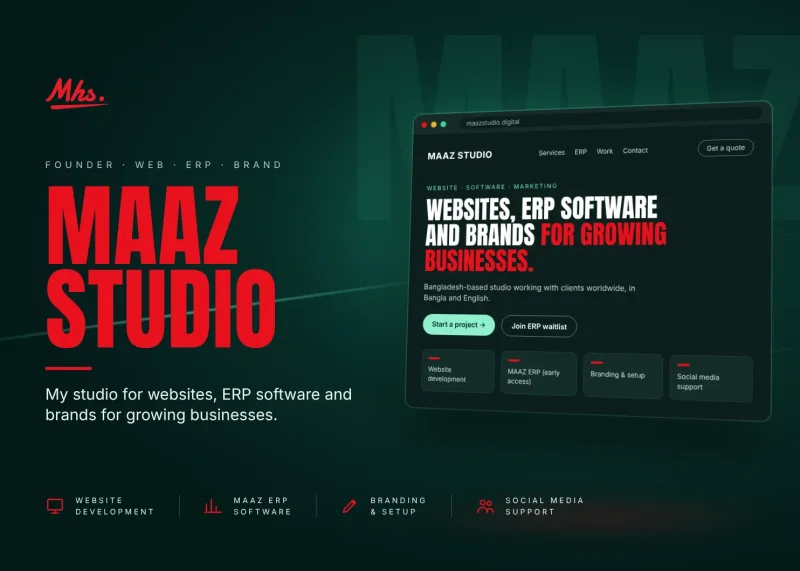
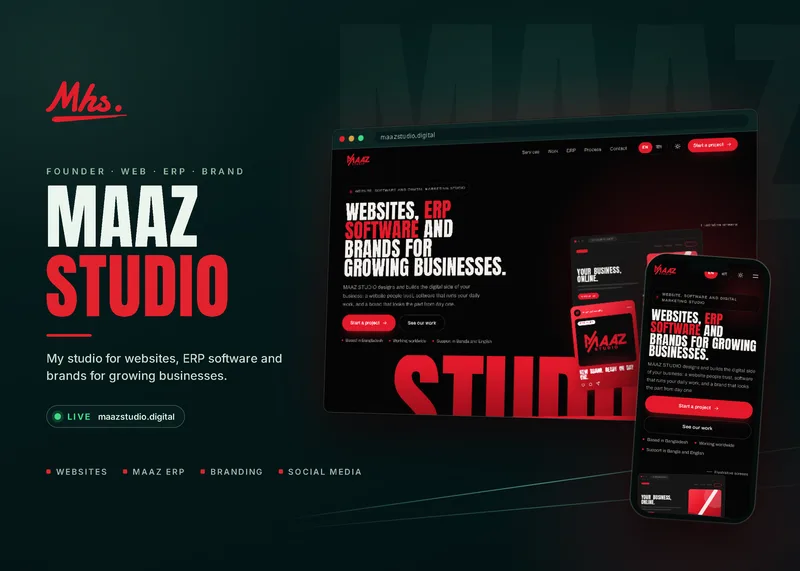
New MAAZ STUDIO cover from the live site, fix two artwork typos
- MAAZ STUDIO cover, small cover and share image rebuilt with real
  screenshots of the current black and red maazstudio.digital (desktop
  in a browser window, mobile on a phone); the old mockup showed an
  outdated green version of the site.
- Biporjoy 18 Season 3 result post: "NATCH DAY-02" now reads
  "MATCH DAY-02" (the M comes from the same font in the TIME line).
- SSFC committee ID card: "COMMITTE MEMBER" now reads
  "COMMITTEE MEMBER", line kept centered.
- Version bumps on the changed image URLs.

diff --git a/maaz-studio.html b/maaz-studio.html
@@ -15,17 +15,17 @@
   <meta property="og:title" content="MAAZ STUDIO | MD Mehedi Hasan Sawon">
   <meta property="og:description" content="My studio for websites, ERP software and brands for growing businesses.">
   <meta property="og:url" content="https://xehedihasansawon.github.io/maaz-studio.html">
-  <meta property="og:image" content="https://xehedihasansawon.github.io/assets/work/maaz-studio-og.jpg">
+  <meta property="og:image" content="https://xehedihasansawon.github.io/assets/work/maaz-studio-og.jpg?v=2">
   <meta property="og:image:width" content="1200">
   <meta property="og:image:height" content="630">
   <meta name="twitter:card" content="summary_large_image">
   <meta name="twitter:title" content="MAAZ STUDIO | MD Mehedi Hasan Sawon">
   <meta name="twitter:description" content="My studio for websites, ERP software and brands for growing businesses.">
-  <meta name="twitter:image" content="https://xehedihasansawon.github.io/assets/work/maaz-studio-og.jpg">
+  <meta name="twitter:image" content="https://xehedihasansawon.github.io/assets/work/maaz-studio-og.jpg?v=2">
   <link rel="preload" href="assets/fonts/inter-latin.woff2" as="font" type="font/woff2" crossorigin>
   <link rel="preload" href="assets/fonts/anton-latin.woff2" as="font" type="font/woff2" crossorigin>
   <link rel="stylesheet" href="styles.css?v=v15-20261122">
-  <script type="application/ld+json">{"@context":"https://schema.org","@type":"CreativeWork","name":"MAAZ STUDIO","url":"https://xehedihasansawon.github.io/maaz-studio.html","image":"https://xehedihasansawon.github.io/assets/work/maaz-studio-og.jpg","description":"MAAZ STUDIO, founded by MD Mehedi Hasan Sawon in February 2026: websites, ERP software, branding and social media support for growing businesses.","creator":{"@type":"Person","name":"MD Mehedi Hasan Sawon","url":"https://xehedihasansawon.github.io/"},"sameAs":"https://maazstudio.digital/"}</script>
+  <script type="application/ld+json">{"@context":"https://schema.org","@type":"CreativeWork","name":"MAAZ STUDIO","url":"https://xehedihasansawon.github.io/maaz-studio.html","image":"https://xehedihasansawon.github.io/assets/work/maaz-studio-og.jpg?v=2","description":"MAAZ STUDIO, founded by MD Mehedi Hasan Sawon in February 2026: websites, ERP software, branding and social media support for growing businesses.","creator":{"@type":"Person","name":"MD Mehedi Hasan Sawon","url":"https://xehedihasansawon.github.io/"},"sameAs":"https://maazstudio.digital/"}</script>
 </head>
 <body class="case-study-page">
   <div class="loader" id="loader" aria-hidden="true">
@@ -95,7 +95,7 @@
           <p class="case-lead">The studio I founded in February 2026 to help growing businesses build their digital side: a website people trust, software that runs their daily work, and a brand that looks the part from day one.</p>
           <div class="case-tags"><span>Founder</span><span>Websites</span><span>ERP Software</span><span>Branding</span><span>Social Media</span></div>
         </div>
-        <div class="case-hero-visual"><img src="assets/work/maaz-studio-cover.webp?v=2" srcset="assets/work/maaz-studio-cover-sm.webp 800w, assets/work/maaz-studio-cover.webp?v=2 1484w" sizes="(max-width: 960px) calc(100vw - 32px), 590px" width="1484" height="1060" alt="MAAZ STUDIO website shown in a browser window" fetchpriority="high" decoding="async"></div>
+        <div class="case-hero-visual"><img src="assets/work/maaz-studio-cover.webp?v=3" srcset="assets/work/maaz-studio-cover-sm.webp?v=3 800w, assets/work/maaz-studio-cover.webp?v=3 1484w" sizes="(max-width: 960px) calc(100vw - 32px), 590px" width="1484" height="1060" alt="MAAZ STUDIO cover with the live maazstudio.digital site on a browser window and a phone" fetchpriority="high" decoding="async"></div>
       </div>
     </section>
 

diff --git a/index.html b/index.html
@@ -197,7 +197,7 @@
         </div>
         <div class="projects-grid">
           <a class="card project" href="maaz-studio.html" data-reveal>
-            <div class="project-media"><img src="assets/work/maaz-studio-cover.webp?v=2" srcset="assets/work/maaz-studio-cover-sm.webp 800w, assets/work/maaz-studio-cover.webp?v=2 1484w" sizes="(max-width: 640px) calc(100vw - 32px), (max-width: 960px) calc(50vw - 26px), 387px" width="1484" height="1060" alt="MAAZ STUDIO website shown in a browser window" loading="lazy" decoding="async"></div>
+            <div class="project-media"><img src="assets/work/maaz-studio-cover.webp?v=3" srcset="assets/work/maaz-studio-cover-sm.webp?v=3 800w, assets/work/maaz-studio-cover.webp?v=3 1484w" sizes="(max-width: 640px) calc(100vw - 32px), (max-width: 960px) calc(50vw - 26px), 387px" width="1484" height="1060" alt="MAAZ STUDIO cover with the live maazstudio.digital site on a browser window and a phone" loading="lazy" decoding="async"></div>
             <div class="project-body">
               <span class="project-meta">Founder · Digital Studio · 2026</span>
               <div class="project-title"><h3>MAAZ STUDIO</h3><span class="round-arrow"><svg class="icon icon-sm" aria-hidden="true"><use href="#i-arrow-up-right"/></svg></span></div>

diff --git a/biporjoy.html b/biporjoy.html
@@ -246,7 +246,7 @@
             <p>Match day 2 of Season 3 on 24 June 2025: Biporjoy 18 2–0 Agnibij 26 at Shahid Maruf Stadium, in black and gold with the new crest.</p>
             <div class="format-meta"><span>Match Graphic</span><span>Social Post</span></div>
           </div>
-          <button type="button" class="case-image-button portrait-art post-art" data-lightbox="assets/work/biporjoy-2025-matchday-result.webp" data-caption="Match Day Result · Season 3 · 2025"><img src="assets/work/biporjoy-2025-matchday-result-sm.webp" width="720" height="720" alt="Biporjoy 18 2–0 Agnibij 26 match day result, 24 June 2025" loading="lazy" decoding="async"></button>
+          <button type="button" class="case-image-button portrait-art post-art" data-lightbox="assets/work/biporjoy-2025-matchday-result.webp?v=2" data-caption="Match Day Result · Season 3 · 2025"><img src="assets/work/biporjoy-2025-matchday-result-sm.webp?v=2" width="720" height="720" alt="Biporjoy 18 2–0 Agnibij 26 match day result, 24 June 2025" loading="lazy" decoding="async"></button>
         </article>
 
         <div class="case-chapter" id="greetings"><span class="case-chapter-name">Greetings</span><span class="case-chapter-range">11–12</span></div>

diff --git a/ssfc.html b/ssfc.html
@@ -213,7 +213,7 @@
             <p>Printed ID cards for organizers, coordinators and guests, using the same SSFC colors and marks so the event looks consistent from the gate to the stage.</p>
             <div class="format-meta"><span>Print</span><span>Event Identity</span></div>
           </div>
-          <button type="button" class="case-image-button portrait-art" data-lightbox="assets/work/ssfc-id-card.webp" data-caption="Committee ID Card · Event credentials"><img src="assets/work/ssfc-id-card.webp" width="1365" height="2048" alt="SSFC 2026 organizing committee ID card" loading="lazy" decoding="async"></button>
+          <button type="button" class="case-image-button portrait-art" data-lightbox="assets/work/ssfc-id-card.webp?v=2" data-caption="Committee ID Card · Event credentials"><img src="assets/work/ssfc-id-card.webp?v=2" width="1365" height="2048" alt="SSFC 2026 organizing committee ID card" loading="lazy" decoding="async"></button>
         </article>
       </div>
     </section>
